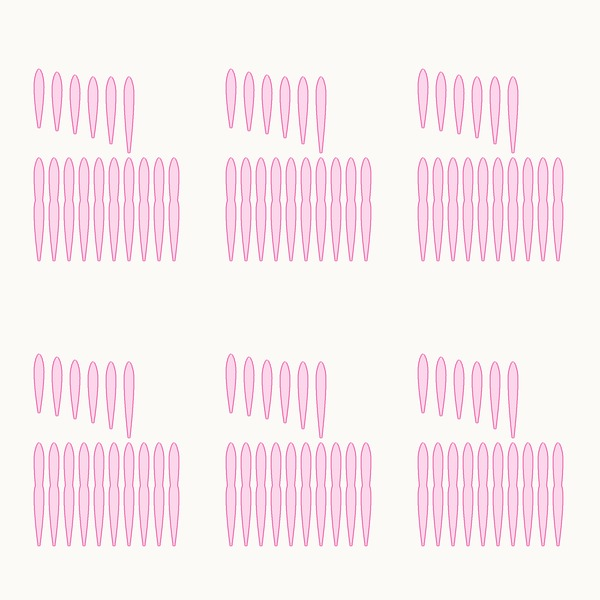
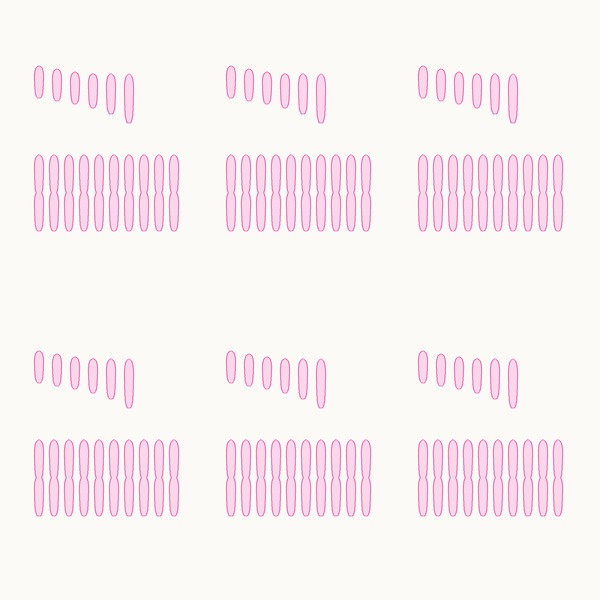
GOGH's drops redrawn for the new brush: a 2.8 mm pill
The owner, 2026-11-23, of IMG_3467 (GPS out): "look how beautiful it comes out …
shall we redraw the drops?". DROP off IMG_3466 and IMG_3467 at RUN 12: 2.8 mm wide,
a round head, the widest a third down, a blunt end; top 0.5, tip 2 (est.). By the
journal that run was RUN 12 throughout: RUN 6 set in a pause was not taken live.

diff --git a/app/src/goghplan.js b/app/src/goghplan.js
@@ -27,7 +27,7 @@ import { seqOf, FORMG } from './formgplan.js';
 // groups as No. 5 and No. 6"; of their patches: "I would set them a little wider still"): a paint a column, two blocks each, the patches 5 mm apart; on the
 // screen its drops (DROP), not the ideal dabs
 // press-short-20, Press test 5 (the owner, 2026-11-23, the brush changed after Kuzya's report: "I need a smaller stroke now … can we bring the slider down
-// to 6 mm? Then just make Press test 5"): Press test 2's six blocks, one jar, a RUN a block; its drops the new brush's, 3 mm wide (IMG_3466, est.)
+// to 6 mm? Then just make Press test 5"): Press test 2's six blocks, one jar, a RUN a block; its drops the new brush's (DROP)
 export const GOGH_LIB = ['press-short-20', 'press-paints-20', 'press-lengths-20', 'orange-bear-20', 'orange-bear'];   // the library: a name here, its json and jpg in app/gogh/; this Mac's own pictures (gogh/local.json, gitignored) in front of it
 // mm, est.: aim, min, max — a dab's length (the owner: "drops of 2 cm"; IMG_3377's measure 13 … 17 mm off an 8 mm mark), the shortest a column's stretch is
 // cut into, the longest; crumb: a stretch of the picture shorter than this left bare; len: what a mm off `aim` costs, squared, in CIELAB ΔE² (a dab's
@@ -84,27 +84,27 @@ export function fitV(f, iw, ih, pitch = GEN.pitch, margin = 0) {
 }
 // a dab on the screen, GEN-V's Sketch and GOGH's Picture: its painted span `gap` shorter, a round-ended line `wide` mm across → the line's ends, top and bottom
 export function dabOnScreen(top, bot, gap = DAB.gap, wide = DAB.wide * GEN.pitch) { const L = Math.max(0, top - bot - gap), r = Math.min(wide, L) / 2, m = (top + bot) / 2; return [m + L / 2 - r, m - L / 2 + r]; }
-// A drop, the dab as Press test 2 laid it (the owner, 2026-11-23: "do not draw the ideal even sausages any more. Take the red contour and leave the pink
+// A drop, the dab as the brush lays it (the owner, 2026-11-23: "do not draw the ideal even sausages any more. Take the red contour and leave the pink
 // inside"; then: "a barely visible yellow contour of the sausage, the master, and the pink drop with its red contour its phantom slave. So we can correct
 // that drop of 1.5 mm and its tip 13 mm past the end"): the master the plan's dab as the screen draws it (dabOnScreen), the slave the paint, hung on it by
-// two numbers of the screen's alone. On a card with `drop` (Press test 3) so far. The 2 mm brush, Jar 19, JAR +14, BRUSH +0.5 … +0.8, off the close photos
-// GOGH/IMG_3435 (RUN 14) and IMG_3438 (RUN 12), scaled by the lone dabs' 6 mm; mm, est.:
-// Both by the machine's way at RUN 12, the leg and the J3's 3 + 3: on a dab longer than the floor the master's own span; a shorter one's the floor's 9 mm
-// about its middle, its paint higher and lower with it (IMG_3438: the 4 mm dab's head 3 mm over the 10 mm's):
-//   top: the paint's top so far under the way's start (the whole canvas IMG_3441: 0 … 3 under the screen's);
-//   tip: the paint's tip so far past the way's end (the close photos 10.4 … 13.2, more the longer the dab; IMG_3441 ≈ 9), and the RUN's 2 mm a step once
-//        more: its early mm land in the air, its paint goes to the tail (RUN 14 2 mm longer than 12, the top where it was). The lengths here 19.5 · 20.3 ·
-//        25.3 mm for the 4 · 10 · 15 mm dabs at RUN 12, 21.5 · 27.3 at 14; the close photos 19.3 · 18.7 · 26.3, 20.2 · 28.5;
-//   wide: the widest, 4 … 5 mm; head: so far under the top, the top pointed as a leaf's; end: the tip's width, of the widest — 3 … 4 mm across at half
-export const DROP = { top: 1.5, tip: 12, wide: 4.6, head: 6, end: 0.1 };
+// two numbers of the screen's alone. On a card with `drop`. Both by the machine's way at RUN 12, the leg and the J3's 3 + 3: on a dab longer than the floor
+// the master's own span, a shorter one's the floor's 9 mm about its middle:
+//   top: the paint's top so far under the way's start; tip: the paint's tip so far past the way's end, and the RUN's 2 mm a step once more;
+//   wide: the widest; profile: the half-width down the drop, [share of its length, share of the widest].
+// The new brush (the owner, 2026-11-23, after Kuzya's report; "look how beautiful it comes out … shall we redraw the drops?"), off GOGH/IMG_3466 and
+// IMG_3467 at RUN 12, scaled by the lone dabs' 6 mm, est.: ≈ 2.8 mm wide (2.5 … 3.1), a pill — the head round, the widest a third down, a slight taper,
+// the end blunt; the paint ≈ the way + 1 … 3 mm (4 … 10 mm dabs 8.2 … 13.3 mm, 12 mm 13.3 … 15.2, 15 mm 17.9 … 20.6, a patch's 12 mm 12.0 … 14.0); top 0.5
+// the owner's on the screen. The old 2 mm brush's of Press test 2 (IMG_3435, IMG_3438, IMG_3441): 4.6 mm, a leaf — the top pointed, the widest 6 mm down,
+// a needle's tail — top 1.5, tip 12.
+export const DROP = { top: 0.5, tip: 2, wide: 2.8, profile: [[0, 0], [0.05, 0.55], [0.15, 0.85], [0.3, 1], [0.5, 0.93], [0.7, 0.87], [0.85, 0.78], [0.95, 0.55], [1, 0.3]] };
 export const DROP_UI = { top: [0, 5, 0.5], tip: [0, 25, 0.5] };   // the sliders, mm [min, max, step]
 export const dropTopOf = v => inRange(v ?? DROP.top, DROP_UI.top), dropTipOf = v => inRange(v ?? DROP.tip, DROP_UI.tip);
 // a dab's drop → its outline, [[x, y]] clockwise from its top; o: { gap, run, top, tip } — the sliders'; wide, a card's own brush (`dropWide`, est.)
 export function dropOf(x, a, b, o = {}) {
   const run = dabRunOf(o.run), [[, s], [, e]] = dabLeg(x, a, b, { ...o, run: 0 });
-  const top = s + ELBOW_J3.early - dropTopOf(o.top), P = Math.max(1, top - (e - ELBOW_J3.late - dropTipOf(o.tip) - 2 * run)), H = Math.min(DROP.head, P / 3), half = (o.wide ?? DROP.wide) / 2;
-  const h = d => d <= H ? half * Math.sin(Math.PI / 2 * d / H) ** 0.6 : half * (1 - (1 - DROP.end) * ((d - H) / (P - H)) ** 1.6);
-  const n = Math.max(8, Math.ceil(P / 0.25)), ds = [...new Set([...Array.from({ length: n + 1 }, (_, i) => P * i / n), H])].sort((p, q) => p - q);
+  const top = s + ELBOW_J3.early - dropTopOf(o.top), P = Math.max(1, top - (e - ELBOW_J3.late - dropTipOf(o.tip) - 2 * run)), half = (o.wide ?? DROP.wide) / 2, pr = DROP.profile;
+  const h = d => { const f = d / P, i = Math.max(1, pr.findIndex(q => q[0] >= f)), [f0, w0] = pr[i - 1], [f1, w1] = pr[i]; return half * (w0 + (w1 - w0) * (f1 > f0 ? (f - f0) / (f1 - f0) : 0)); };
+  const n = Math.max(8, Math.ceil(P / 0.25)), ds = [...new Set([...Array.from({ length: n + 1 }, (_, i) => P * i / n), ...pr.map(q => q[0] * P)])].sort((p, q) => p - q);
   const side = ds.map(d => [d, h(d)]);
   return [...side.map(([d, w]) => [x + w, top - d]), ...side.reverse().map(([d, w]) => [x - w, top - d])];
 }

diff --git a/app/test/goghplan.test.js b/app/test/goghplan.test.js
@@ -237,12 +237,11 @@ test('APPROVE 🐾: the card off the sketch as genvpic.py makes it — the plan 
 // Press test 3 (the owner, 2026-11-23: "do not draw the ideal even sausages any more. Take the red contour and leave the pink inside"; "the master … and
 // the pink drop with its red contour its phantom slave. So we can correct that drop of 1.5 mm and its tip 13 mm past the end"): the slave hung on the
 // master by two numbers — its top under the machine's way's start, its tip past its end (a dab longer than the floor: the master's), the RUN's 2 mm a step
-test('a drop, the slave: its top 1.5 under the way\'s start, its tip 12 past its end, the RUN\'s 2 mm a step — Press test 2\'s lengths; 4.6 mm wide, a leaf\'s head, a tapering tail', async () => {
+test('a drop, the slave, the new brush\'s: its top 0.5 under the way\'s start, its tip 2 past its end, the RUN\'s 2 mm a step; 2.8 mm wide, a pill — a round head, a blunt end', async () => {
   const { dropOf, DROP, dropTopOf, dropTipOf } = await import('../src/goghplan.js');
   const ys = q => q.map(p => p[1]), xs = q => q.map(p => p[0]), len = q => Math.max(...ys(q)) - Math.min(...ys(q));
-  // the 2 mm brush's dabs at GAP +0.2: 4 … 10 mm at the floor, 9 mm of way at RUN 12; 15 mm its own
-  // [mm, run, the way's start, the drop's length]; the close photos IMG_3438 19.3 · 18.7 · 26.3, IMG_3435 20.2 · 28.5 (est.)
-  const close = [[4, 0, 102.5, 19.5], [10, 0, 99.9, 20.3], [15, 0, 99.9, 25.3], [4, 1, 102.5, 21.5], [15, 1, 99.9, 27.3]];
+  // [mm, run, the way's start, the drop's length]; GOGH/IMG_3466 and IMG_3467 at RUN 12: 4 … 10 mm 8.2 … 13.3, 12 mm 13.3 … 15.2, 15 mm 17.9 … 20.6 (est.)
+  const close = [[4, 0, 102.5, 10.5], [10, 0, 99.9, 11.3], [12, 0, 99.9, 13.3], [15, 0, 99.9, 16.3], [4, 1, 102.5, 12.5], [12, -3, 99.9, 7.3]];
   for (const [L, run, start, want] of close) {
     const q = dropOf(50, 100, 100 - L, { gap: 0.2, run });
     assert.ok(Math.abs(Math.max(...ys(q)) - (start - DROP.top)) < 1e-9, `top: ${L} mm, run ${run}: ${Math.max(...ys(q))}`);
@@ -252,14 +251,15 @@ test('a drop, the slave: its top 1.5 under the way\'s start, its tip 12 past its
   }
   // the sliders move the slave alone: the top down, the tip on, the master where it is
   const q0 = dropOf(50, 100, 85, { gap: 0.2 }), q1 = dropOf(50, 100, 85, { gap: 0.2, top: 3, tip: 10 });
-  assert.ok(Math.abs(Math.max(...ys(q0)) - Math.max(...ys(q1)) - 1.5) < 1e-9 && Math.abs(Math.min(...ys(q1)) - Math.min(...ys(q0)) - 2) < 1e-9, "the top 1.5 lower, the tip 2 shorter");
-  assert.equal(dropTopOf(9), 5); assert.equal(dropTopOf(-1), 0); assert.equal(dropTipOf(13.3), 13.5); assert.equal(dropTipOf(), 12);
-  // the shape off the close photos: the head widening to 0.9 of the widest by 4 mm, 3.4 … 4.6 across at half its length, the tail a point
+  assert.ok(Math.abs(Math.max(...ys(q0)) - Math.max(...ys(q1)) - 2.5) < 1e-9 && Math.abs(Math.min(...ys(q0)) - Math.min(...ys(q1)) - 8) < 1e-9, 'the top 2.5 lower, the tip 8 longer');
+  assert.equal(dropTopOf(9), 5); assert.equal(dropTopOf(-1), 0); assert.equal(dropTipOf(13.3), 13.5); assert.equal(dropTipOf(), 2);
+  // the shape off the photos: the head round, the widest a third down, still ≈ 0.9 of it at half, the end blunt; a card's own width
   const at = (q, d) => { const top = Math.max(...ys(q)); return 2 * Math.max(...q.filter(p => Math.abs(top - p[1] - d) < 0.13).map(p => p[0] - 50)); };
-  const q = dropOf(50, 100, 96, { gap: 0.2 });
-  assert.ok(at(q, 0.5) < at(q, 2) && at(q, 2) < at(q, 4) && at(q, 4) > 0.85 * DROP.wide, 'the head');
-  assert.ok(at(q, len(q) / 2) > 3.4 && at(q, len(q) / 2) < 4.6, `half: ${at(q, len(q) / 2)}`);
-  assert.ok(at(q, len(q) - 0.2) < 1, 'the tail a point');
+  const q = dropOf(50, 100, 88, { gap: 0.2 }), P = len(q);
+  assert.ok(at(q, 0.05 * P) < at(q, 0.15 * P) && at(q, 0.15 * P) < at(q, 0.3 * P), 'the head');
+  assert.ok(Math.abs(at(q, 0.3 * P) - DROP.wide) < 0.06 && at(q, 0.5 * P) > 0.88 * DROP.wide, 'the widest a third down, ≈ 0.9 at half');
+  assert.ok(at(q, P - 0.1) > 0.5 && at(q, P - 0.1) < 1.2, `the end blunt: ${at(q, P - 0.1)}`);
+  const w = dropOf(50, 100, 88, { gap: 0.2, wide: 4.6 }).map(p => p[0]); assert.ok(Math.abs(Math.max(...w) - Math.min(...w) - 4.6) < 1e-9, 'a card\'s own width');
 });
 
 test('Press test 3: three paints a column each, Jar 28 · Jar 6 · Jar 14, two blocks a paint, their patches 5 mm apart (block 6 6 mm), drops on the screen, none touching another block', async () => {
@@ -285,13 +285,13 @@ test('Press test 3: three paints a column each, Jar 28 · Jar 6 · Jar 14, two b
   assert.ok(Math.min(...all.map(p => p[0])) > 10 && Math.max(...all.map(p => p[0])) < 190 && Math.min(...all.map(p => p[1])) > 10 && Math.max(...all.map(p => p[1])) < 190, 'within TEST\'s 10 mm margin');
 });
 
-test('Press test 5: the new brush, Press test 2\'s six blocks in one jar — lone dabs 4 … 15 mm, a patch 10 × 2 dabs 5 mm apart; its drops 3 mm wide on the screen', async () => {
+test('Press test 5: the new brush, Press test 2\'s six blocks in one jar — lone dabs 4 … 15 mm, a patch 10 × 2 dabs 5 mm apart; its drops the new brush\'s on the screen', async () => {
   const fs = await import('node:fs'), path = await import('node:path'), { fileURLToPath } = await import('node:url');
   const root = path.join(path.dirname(fileURLToPath(import.meta.url)), '..', '..');
   const { GOGH_LIB, dropOf, passesV } = await import('../src/goghplan.js');
   const pic = JSON.parse(fs.readFileSync(path.join(root, 'app/gogh/press-short-20.json'), 'utf8'));
   assert.equal(GOGH_LIB[0], 'press-short-20');
-  assert.ok(pic.drop === true && pic.dropWide === 3);
+  assert.ok(pic.drop === true && pic.dropWide === undefined, 'the new brush\'s drop, DROP\'s own');
   assert.deepEqual(passesV(pic).map(P => P.pencil), ['b1', 'b2', 'b3', 'b4', 'b5', 'b6']);
   for (const j of pic.jars) {
     assert.equal(j.name, 'Jar 19');
@@ -300,6 +300,6 @@ test('Press test 5: the new brush, Press test 2\'s six blocks in one jar — lon
     assert.deepEqual(pat.slice(1).map((l, i) => l[0][0] - pat[i][0][0]), Array(9).fill(5));
     assert.ok(pat.every(l => l.length === 2 && l[0][2] === l[1][1]), 'two dabs end to end a column');
   }
-  const q = dropOf(50, 100, 88, { gap: 0.2, wide: pic.dropWide }), xs = q.map(p => p[0]);
-  assert.ok(Math.abs(Math.max(...xs) - Math.min(...xs) - 3) < 1e-9, 'the new brush\'s 3 mm');
+  const q = dropOf(50, 100, 88, { gap: 0.2 }), xs = q.map(p => p[0]);
+  assert.ok(Math.abs(Math.max(...xs) - Math.min(...xs) - 2.8) < 1e-9, 'the new brush\'s 2.8 mm');
 });

diff --git a/GOGH/README.md b/GOGH/README.md
@@ -79,10 +79,13 @@ spacing blind. The code untouched by him.
 |---|---|
 | `IMG_3466.jpg` | The new brush's first block (RUN 12), a ruler under it (cm): the lone dabs ≈ 3 mm wide, 4 … 10 mm ≈ 10 … 13.5 mm long, 12 mm ≈ 15, 15 mm ≈ 20 — the old 2 mm's ≈ 5 mm wide, 18 … 26 long; the tail past the way +1 … +5, not +9; the patch, 5 mm apart, mostly apart (est., by the ruler). |
 
+| `IMG_3467.jpg` | The new brush, two blocks of Press test 3's card (the owner: "look how beautiful it comes out :)) … the third module's settings: GAP +0.2, WIDTH 2.2, RUN 6, DROP · TOP 0.5, DROP · TIP 0.0 … shall we redraw the drops?"). By the journal the run started at RUN 12 and no swap came — blocks 2 and 3 painted the same 725 mm: RUN 6, set in the pause, did not take (a run of −3 makes a short dab's steps fewer, and a live swap takes only the same steps); so the third block too is RUN 12. Its drops pills ≈ 2.8 mm wide, the lone 4 … 10 mm 8.2 … 9.1 mm, 12 mm 13.3, 15 mm 17.9, the patch's 12 mm 11.4 … 12.5, every column apart (scaled by the lone dabs' 6 mm, est.). |
+
 **RUN down to 6** (README, "GOGH: a dab …", 5): the slider −3 … +4, the brush landing later and lifting earlier below 0. **`app/gogh/press-short-20`, Press
 test 5**: Press test 2's six blocks, one jar (Jar 19, as Press test 2's; 🔄 for another), each its lone dabs 4 … 15 mm 6 mm apart and a patch of 10 × 2
-dabs of 12 mm 5 mm apart; a RUN a block, set in the pause before it; on the screen its drops 3 mm wide (`dropWide`, the card's own, est.), the slider
-Drop · tip ≈ 5 for the new brush by IMG_3466 (est.).
+dabs of 12 mm 5 mm apart; a RUN a block — set before DRAG DABS, Start from the block (a RUN below 0 is not taken live). **The drops redrawn for the new
+brush** (`DROP`): 2.8 mm wide, a pill — the head round, the widest a third down, a slight taper, the end blunt; top 0.5 (the owner's), tip 2 past the way's
+end (est.); the paint ≈ the way + 1 … 3 mm: 10.5 mm for a 4 mm dab, 13.3 for 12, 16.3 for 15 (the photos 8.2 … 13.3, 13.3 … 15.2, 17.9 … 20.6).
 
 ## The gummy bear's head as a matrix (2026-11-23, the afternoon)
 

diff --git a/CHANGELOG.md b/CHANGELOG.md
@@ -5,6 +5,10 @@ Machine measurements stay in RUBENS: `../Rubens/CALIBRATION.md`.
 
 ## Unreleased
 
+- **GOGH's drops redrawn for the new brush** (2026-11-23, the afternoon; the owner, of `GOGH/IMG_3467.jpg`: "look how beautiful it comes out … shall we
+  redraw the drops?"). `DROP`: 2.8 mm wide, a pill — a round head, the widest a third down, a blunt end — top 0.5, tip 2 (est.), off IMG_3466 and IMG_3467 at
+  RUN 12; the old 2 mm brush's leaf in its comment. The run of IMG_3467 was RUN 12 throughout by the journal: RUN 6 set in a pause was not taken live.
+
 - **RUN down to 6 mm; Press test 5 for the new brush** (2026-11-23, the afternoon; the owner, the brush changed after Kuzya's report: "I need a smaller
   stroke now … can we bring the slider down to 6 mm? Then just make Press test 5"). GOGH's RUN −3 … +4: below 0 the brush lands later and lifts
   earlier, the 2 mm's 12 mm dab running 6 at −3, a leg no shorter than 0.2 mm (`DAB_LEG`). `app/gogh/press-short-20`: Press test 2's six blocks in one
